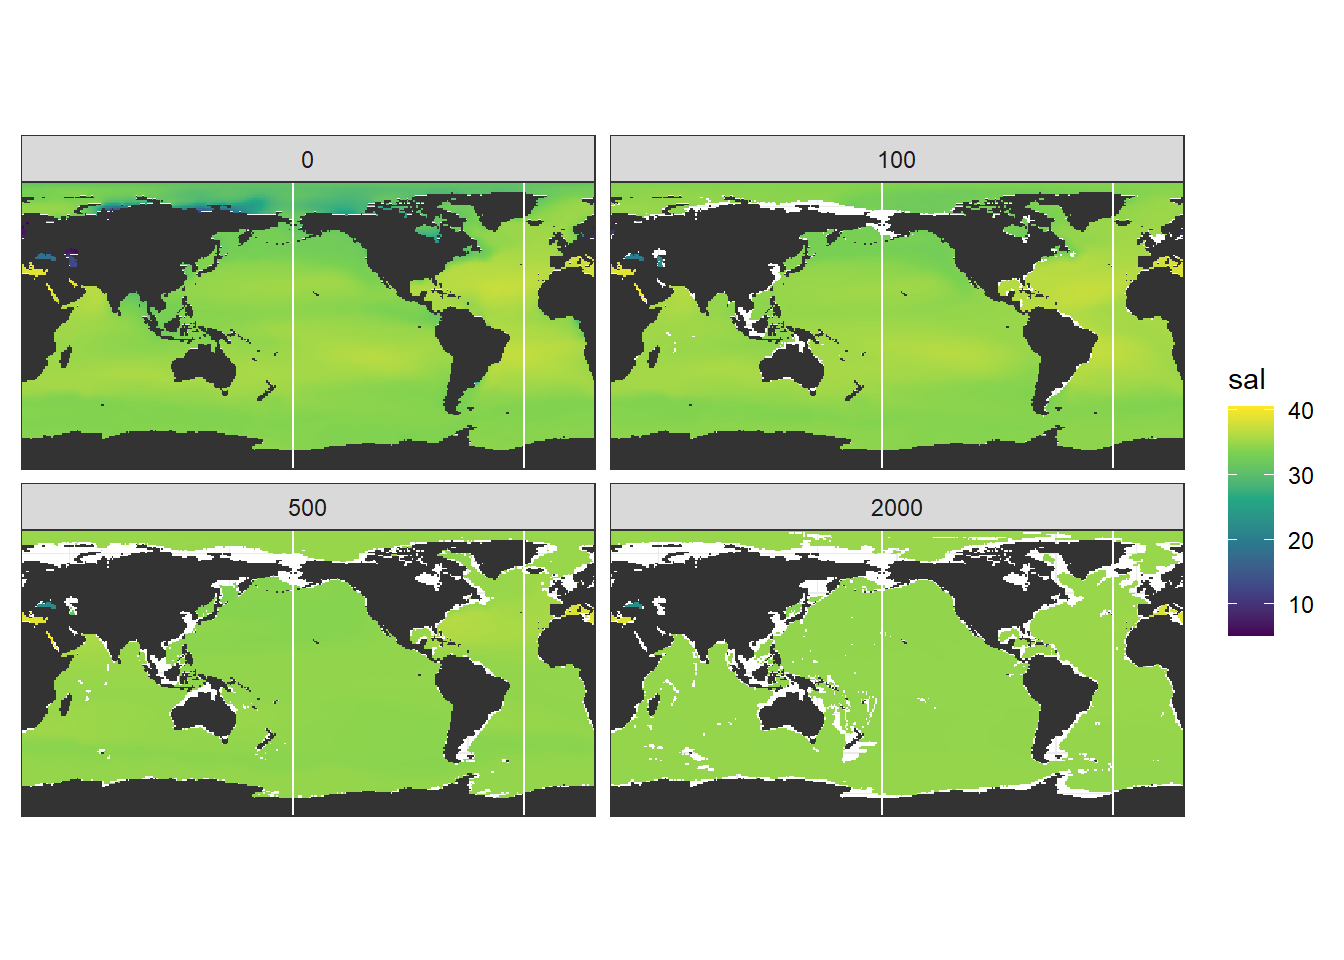
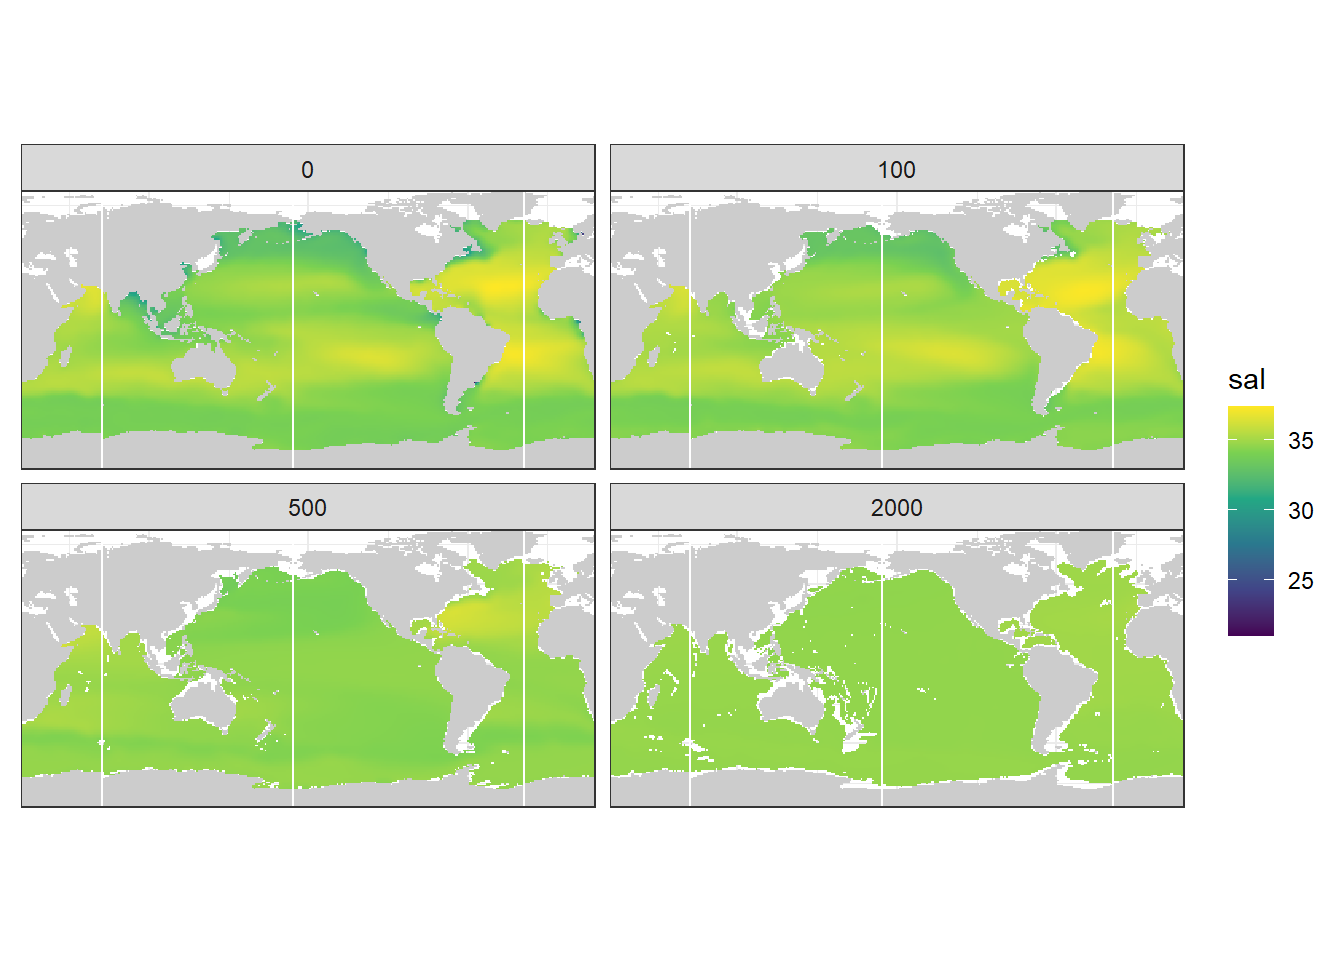
Build site.

diff --git a/docs/read_World_Ocean_Atlas_2018.html b/docs/read_World_Ocean_Atlas_2018.html
@@ -454,7 +454,7 @@ div.tocify {
 
 <h1 class="title toc-ignore">World Ocean Atlas 2018</h1>
 <h4 class="author">Jens Daniel Müller</h4>
-<h4 class="date">11 August, 2020</h4>
+<h4 class="date">12 August, 2020</h4>
 
 </div>
 
@@ -479,7 +479,7 @@ div.tocify {
 <div class="tab-content">
 <div id="summary" class="tab-pane fade in active">
 <p>
-<strong>Last updated:</strong> 2020-08-11
+<strong>Last updated:</strong> 2020-08-12
 </p>
 <p>
 <strong>Checks:</strong> <span class="glyphicon glyphicon-ok text-success" aria-hidden="true"></span> 7 <span class="glyphicon glyphicon-exclamation-sign text-danger" aria-hidden="true"></span> 0
@@ -570,16 +570,16 @@ This reproducible <a href="http://rmarkdown.rstudio.com">R Markdown</a> analysis
 <div class="panel panel-default">
 <div class="panel-heading">
 <p class="panel-title">
-<a data-toggle="collapse" data-parent="#workflowr-checks" href="#strongRepositoryversionstrongahrefhttpsgithubcomjensdanielmuellerCanteMLRtree5d4598160dff9ddc8596674983c74e0680c9ce62targetblank5d45981a"> <span class="glyphicon glyphicon-ok text-success" aria-hidden="true"></span> <strong>Repository version:</strong> <a href="https://github.com/jens-daniel-mueller/Cant_eMLR/tree/5d4598160dff9ddc8596674983c74e0680c9ce62" target="_blank">5d45981</a> </a>
+<a data-toggle="collapse" data-parent="#workflowr-checks" href="#strongRepositoryversionstrongahrefhttpsgithubcomjensdanielmuellerCanteMLRtree1a7acc27f10d03a0cf9339e46aaf8597fa9ea4ectargetblank1a7acc2a"> <span class="glyphicon glyphicon-ok text-success" aria-hidden="true"></span> <strong>Repository version:</strong> <a href="https://github.com/jens-daniel-mueller/Cant_eMLR/tree/1a7acc27f10d03a0cf9339e46aaf8597fa9ea4ec" target="_blank">1a7acc2</a> </a>
 </p>
 </div>
[2 lines of base64/hex data omitted]
 <div class="panel-body">
 <p>
 Great! You are using Git for version control. Tracking code development and connecting the code version to the results is critical for reproducibility.
 </p>
 <p>
-The results in this page were generated with repository version <a href="https://github.com/jens-daniel-mueller/Cant_eMLR/tree/5d4598160dff9ddc8596674983c74e0680c9ce62" target="_blank">5d45981</a>. See the <em>Past versions</em> tab to see a history of the changes made to the R Markdown and HTML files.
+The results in this page were generated with repository version <a href="https://github.com/jens-daniel-mueller/Cant_eMLR/tree/1a7acc27f10d03a0cf9339e46aaf8597fa9ea4ec" target="_blank">1a7acc2</a>. See the <em>Past versions</em> tab to see a history of the changes made to the R Markdown and HTML files.
 </p>
 <p>
 Note that you need to be careful to ensure that all relevant files for the analysis have been committed to Git prior to generating the results (you can use <code>wflow_publish</code> or <code>wflow_git_commit</code>). workflowr only checks the R Markdown file, but you know if there are other scripts or data files that it depends on. Below is the status of the Git repository when the results were generated:
@@ -643,6 +643,40 @@ Message
 </tr>
 </thead>
 <tbody>
+<tr>
+<td>
+Rmd
+</td>
+<td>
+<a href="https://github.com/jens-daniel-mueller/Cant_eMLR/blob/1a7acc27f10d03a0cf9339e46aaf8597fa9ea4ec/analysis/read_World_Ocean_Atlas_2018.Rmd" target="_blank">1a7acc2</a>
+</td>
+<td>
+jens-daniel-mueller
+</td>
+<td>
+2020-08-12
+</td>
+<td>
+applied basin mask, combined sectio plots for Atl, Pac, Ind
+</td>
+</tr>
+<tr>
+<td>
+html
+</td>
+<td>
+<a href="https://rawcdn.githack.com/jens-daniel-mueller/Cant_eMLR/35b284df4b8906df1eca802c86a75c07d7cb4fe6/docs/read_World_Ocean_Atlas_2018.html" target="_blank">35b284d</a>
+</td>
+<td>
+jens-daniel-mueller
+</td>
+<td>
+2020-08-11
+</td>
+<td>
+Build site.
+</td>
+</tr>
 <tr>
 <td>
 Rmd
@@ -1772,10 +1806,11 @@ basinmask_01 &lt;- basinmask_01 %&gt;%
 <li>1: Atlantic Ocean (with 10 - Southern Ocean, between 63°W and 20°E)</li>
 <li>2: Pacific Ocean (with 10 - Southern Ocean, between 147°E and 63°W)</li>
 <li>3: Indian Ocean (with 10 - Southern Ocean, between 20°E and 147°E)</li>
+<li>56: Bay of Bengal (included in Indo-Pacifc)</li>
 </ul>
-<p>From this, the Atlantik and the Indo-Pacific were labeled.</p>
+<p>From this, the Atlantic and the Indo-Pacific were labeled.</p>
 <pre class="r"><code>basinmask_01 &lt;- basinmask_01 %&gt;% 
-  filter(Basin_0m %in% c(&quot;1&quot;, &quot;2&quot;, &quot;3&quot;, &quot;10&quot;)) %&gt;% 
+  filter(Basin_0m %in% c(&quot;1&quot;, &quot;2&quot;, &quot;3&quot;, &quot;10&quot;, &quot;56&quot;)) %&gt;% 
   mutate(basin = if_else(Basin_0m == &quot;10&quot; &amp; lon &gt;= -63 &amp; lon &lt; 20,
                          &quot;Atlantic&quot;, &quot;Indo-Pacific&quot;),
          basin = if_else(Basin_0m == &quot;1&quot;,
@@ -1792,10 +1827,15 @@ basinmask_01 &lt;- basinmask_01 %&gt;%
 <pre class="r"><code>landsea_01 &lt;- read_csv(here::here(&quot;data/World_Ocean_Atlas_2018&quot;,
                                   &quot;landsea_01.msk&quot;),
                          skip = 1,
-                         col_types = list(.default = &quot;d&quot;))
-
-landmask &lt;- landsea_01 %&gt;% 
-  filter(Bottom_Standard_Level == 1) %&gt;% 
+                         col_types = list(.default = &quot;d&quot;))</code></pre>
+</div>
+<div id="label" class="section level3">
+<h3><span class="header-section-number">2.2.2</span> Label</h3>
+<p>According to the <a href="https://data.nodc.noaa.gov/woa/WOA18/DOC/woa18documentation.pdf" target="_blank">WOA18 documentation</a> document: <em>“The landsea_XX.msk contains the standard depth level number at which the bottom of the ocean is first encountered at each quarter-degree or one-degree square for the entire world. Land will have a value of 1, corresponding to the surface.”</em></p>
+<p>The landmask was derived as coordinates with value 1.</p>
+<pre class="r"><code>landmask &lt;- landsea_01 %&gt;% 
+  mutate(region = if_else(Bottom_Standard_Level == &quot;1&quot;,
+                         &quot;land&quot;, &quot;ocean&quot;)) %&gt;% 
   select(-Bottom_Standard_Level)
 
 landmask &lt;- landmask %&gt;% 
@@ -1805,16 +1845,11 @@ landmask &lt;- landmask %&gt;%
 
 rm(landsea_01)</code></pre>
 </div>
-<div id="label" class="section level3">
-<h3><span class="header-section-number">2.2.2</span> Label</h3>
-<p>According to the <a href="https://data.nodc.noaa.gov/woa/WOA18/DOC/woa18documentation.pdf" target="_blank">WOA18 documentation</a> document: <em>“The landsea_XX.msk contains the standard depth level number at which the bottom of the ocean is first encountered at each quarter-degree or one-degree square for the entire world. Land will have a value of 1, corresponding to the surface.”</em></p>
-<p>The landmask was derived as coordinates with value 1.</p>
-</div>
 </div>
 <div id="plot-map" class="section level2">
 <h2><span class="header-section-number">2.3</span> Plot map</h2>
 <pre class="r"><code>ggplot() +
-  geom_raster(data = landmask,
+  geom_raster(data = landmask %&gt;% filter(region == &quot;land&quot;),
               aes(lon, lat), fill = &quot;grey80&quot;) +
   geom_raster(data = basinmask_01,
               aes(lon, lat, fill = basin)) +
@@ -1822,7 +1857,7 @@ rm(landsea_01)</code></pre>
   coord_quickmap(expand = 0) +
   theme(legend.position = &quot;top&quot;,
         legend.title = element_blank())</code></pre>
-<p><img src="figure/read_World_Ocean_Atlas_2018.Rmd/WOA18_map-1.png" width="672" style="display: block; margin: auto;" /></p>
+<p><img src="figure/read_World_Ocean_Atlas_2018.Rmd/basin_masks_WOA18_map-1.png" width="672" style="display: block; margin: auto;" /></p>
 </div>
 <div id="write-files" class="section level2">
 <h2><span class="header-section-number">2.4</span> Write files</h2>
@@ -1832,9 +1867,7 @@ rm(landsea_01)</code></pre>
 
 landmask %&gt;% 
   write_csv(here::here(&quot;data/World_Ocean_Atlas_2018/_summarized_files&quot;,
-                       &quot;land_mask_WOA18.csv&quot;))
-
-rm(basinmask_01)</code></pre>
+                       &quot;land_mask_WOA18.csv&quot;))</code></pre>
 </div>
 </div>
 <div id="woa18-data" class="section level1">
@@ -1905,45 +1938,50 @@ rm(WOA_sal, WOA_tem)</code></pre>
 </ul>
 <p>Section locations are indicated as white lines in maps.</p>
 <p>Please note that longitudes in the climatologies range from -179.5 - 179.5, which is different from GLODAP mapped climatologies.</p>
+<pre class="r"><code>WOA18_predictors &lt;- full_join(WOA_sal_tibble, WOA_tem_tibble)
+rm(WOA_sal_tibble, WOA_tem_tibble)</code></pre>
+</div>
+<div id="apply-basin-mask" class="section level2">
+<h2><span class="header-section-number">3.2</span> Apply basin mask</h2>
+<p>Data outside the WOA18 basin mask were removed for further analysis.</p>
+<pre class="r"><code>WOA18_predictors &lt;- inner_join(WOA18_predictors, basinmask_01)
+rm(basinmask_01)</code></pre>
+</div>
+<div id="neutral-density" class="section level2">
+<h2><span class="header-section-number">3.3</span> Neutral density</h2>
 </div>
 <div id="temperature-plots" class="section level2">
-<h2><span class="header-section-number">3.2</span> Temperature plots</h2>
+<h2><span class="header-section-number">3.4</span> Temperature plots</h2>
 <div id="surface-map" class="section level3">
-<h3><span class="header-section-number">3.2.1</span> Surface map</h3>
+<h3><span class="header-section-number">3.4.1</span> Surface map</h3>
 <pre class="r"><code>source(here::here(&quot;code&quot;,
                   &quot;plotting_functions.R&quot;))
 
-map_climatology(WOA_tem_tibble, &quot;tem&quot;)</code></pre>
+map_climatology(WOA18_predictors, &quot;tem&quot;)</code></pre>
 <p><img src="figure/read_World_Ocean_Atlas_2018.Rmd/temperature_surface_WOA18_map-1.png" width="672" style="display: block; margin: auto;" /></p>
 </div>
 <div id="sections" class="section level3">
-<h3><span class="header-section-number">3.2.2</span> Sections</h3>
-<pre class="r"><code>section_climatology_Atl(WOA_tem_tibble, &quot;tem&quot;)</code></pre>
-<p><img src="figure/read_World_Ocean_Atlas_2018.Rmd/temperature_section_WOA18_Atl-1.png" width="672" style="display: block; margin: auto;" /></p>
-<pre class="r"><code>section_climatology_Pac(WOA_tem_tibble, &quot;tem&quot;)</code></pre>
-<p><img src="figure/read_World_Ocean_Atlas_2018.Rmd/temperature_section_WOA18_Pac-1.png" width="672" style="display: block; margin: auto;" /></p>
+<h3><span class="header-section-number">3.4.2</span> Sections</h3>
+<pre class="r"><code>section_climatology(WOA18_predictors, &quot;tem&quot;)</code></pre>
+<p><img src="figure/read_World_Ocean_Atlas_2018.Rmd/temperature_sections_WOA18-1.png" width="672" style="display: block; margin: auto;" /></p>
 </div>
 </div>
 <div id="salinity-plots" class="section level2">
-<h2><span class="header-section-number">3.3</span> Salinity plots</h2>
+<h2><span class="header-section-number">3.5</span> Salinity plots</h2>
 <div id="surface-map-1" class="section level3">
-<h3><span class="header-section-number">3.3.1</span> Surface map</h3>
-<pre class="r"><code>map_climatology(WOA_sal_tibble, &quot;sal&quot;)</code></pre>
+<h3><span class="header-section-number">3.5.1</span> Surface map</h3>
+<pre class="r"><code>map_climatology(WOA18_predictors, &quot;sal&quot;)</code></pre>
 <p><img src="figure/read_World_Ocean_Atlas_2018.Rmd/salinity_surface_WOA18_map-1.png" width="672" style="display: block; margin: auto;" /></p>
 </div>
 <div id="sections-1" class="section level3">
-<h3><span class="header-section-number">3.3.2</span> Sections</h3>
-<pre class="r"><code>section_climatology_Atl(WOA_sal_tibble, &quot;sal&quot;)</code></pre>
-<p><img src="figure/read_World_Ocean_Atlas_2018.Rmd/salinity_section_WOA18_Atl-1.png" width="672" style="display: block; margin: auto;" /></p>
-<pre class="r"><code>section_climatology_Pac(WOA_sal_tibble, &quot;sal&quot;)</code></pre>
-<p><img src="figure/read_World_Ocean_Atlas_2018.Rmd/salinity_section_WOA18_Pac-1.png" width="672" style="display: block; margin: auto;" /></p>
+<h3><span class="header-section-number">3.5.2</span> Sections</h3>
+<pre class="r"><code>section_climatology(WOA18_predictors, &quot;sal&quot;)</code></pre>
+<p><img src="figure/read_World_Ocean_Atlas_2018.Rmd/salinity_sections_WOA18-1.png" width="672" style="display: block; margin: auto;" /></p>
 </div>
 </div>
 <div id="write-file" class="section level2">
-<h2><span class="header-section-number">3.4</span> Write file</h2>
-<pre class="r"><code>WOA18_predictors &lt;- full_join(WOA_sal_tibble, WOA_tem_tibble)
-
-WOA18_predictors %&gt;% 
+<h2><span class="header-section-number">3.6</span> Write file</h2>
+<pre class="r"><code>WOA18_predictors %&gt;% 
   write_csv(here::here(&quot;data/World_Ocean_Atlas_2018/_summarized_files&quot;,
                        &quot;WOA18_predictors.csv&quot;))
 
@@ -2031,7 +2069,7 @@ rm(nd_mask, nd_mask_tibble, Atl_lon, Pac_lon, depth_surface_selection)</code></p
 <h1><span class="header-section-number">5</span> Open tasks</h1>
 <ul>
 <li>apply basin mask to WOA18 data</li>
-<li>add Indian ocean section plot</li>
+<li>add Indian ocean section plot -calculate neutral density</li>
 </ul>
 </div>
 <div id="questions" class="section level1">

diff --git a/docs/config_parameterization.html b/docs/config_parameterization.html
@@ -455,7 +455,7 @@ div.tocify {
 
 <h1 class="title toc-ignore">Parameterization</h1>
 <h4 class="author">Jens Daniel Müller</h4>
-<h4 class="date">11 August, 2020</h4>
+<h4 class="date">12 August, 2020</h4>
 
 </div>
 
@@ -480,7 +480,7 @@ div.tocify {
 <div class="tab-content">
 <div id="summary" class="tab-pane fade in active">
 <p>
-<strong>Last updated:</strong> 2020-08-11
+<strong>Last updated:</strong> 2020-08-12
 </p>
 <p>
 <strong>Checks:</strong> <span class="glyphicon glyphicon-ok text-success" aria-hidden="true"></span> 7 <span class="glyphicon glyphicon-exclamation-sign text-danger" aria-hidden="true"></span> 0
@@ -571,16 +571,16 @@ This reproducible <a href="http://rmarkdown.rstudio.com">R Markdown</a> analysis
 <div class="panel panel-default">
 <div class="panel-heading">
 <p class="panel-title">
-<a data-toggle="collapse" data-parent="#workflowr-checks" href="#strongRepositoryversionstrongahrefhttpsgithubcomjensdanielmuellerCanteMLRtreec9e2d6589d10d071648999267fe5847788046df4targetblankc9e2d65a"> <span class="glyphicon glyphicon-ok text-success" aria-hidden="true"></span> <strong>Repository version:</strong> <a href="https://github.com/jens-daniel-mueller/Cant_eMLR/tree/c9e2d6589d10d071648999267fe5847788046df4" target="_blank">c9e2d65</a> </a>
+<a data-toggle="collapse" data-parent="#workflowr-checks" href="#strongRepositoryversionstrongahrefhttpsgithubcomjensdanielmuellerCanteMLRtree1a7acc27f10d03a0cf9339e46aaf8597fa9ea4ectargetblank1a7acc2a"> <span class="glyphicon glyphicon-ok text-success" aria-hidden="true"></span> <strong>Repository version:</strong> <a href="https://github.com/jens-daniel-mueller/Cant_eMLR/tree/1a7acc27f10d03a0cf9339e46aaf8597fa9ea4ec" target="_blank">1a7acc2</a> </a>
 </p>
 </div>
[2 lines of base64/hex data omitted]
 <div class="panel-body">
 <p>
 Great! You are using Git for version control. Tracking code development and connecting the code version to the results is critical for reproducibility.
 </p>
 <p>
-The results in this page were generated with repository version <a href="https://github.com/jens-daniel-mueller/Cant_eMLR/tree/c9e2d6589d10d071648999267fe5847788046df4" target="_blank">c9e2d65</a>. See the <em>Past versions</em> tab to see a history of the changes made to the R Markdown and HTML files.
+The results in this page were generated with repository version <a href="https://github.com/jens-daniel-mueller/Cant_eMLR/tree/1a7acc27f10d03a0cf9339e46aaf8597fa9ea4ec" target="_blank">1a7acc2</a>. See the <em>Past versions</em> tab to see a history of the changes made to the R Markdown and HTML files.
 </p>
 <p>
 Note that you need to be careful to ensure that all relevant files for the analysis have been committed to Git prior to generating the results (you can use <code>wflow_publish</code> or <code>wflow_git_commit</code>). workflowr only checks the R Markdown file, but you know if there are other scripts or data files that it depends on. Below is the status of the Git repository when the results were generated:
@@ -602,9 +602,10 @@ Ignored files:
     Ignored:    dump/
 
 Untracked files:
-    Untracked:  analysis/plotting_scripts/
     Untracked:  analysis/python_scripts/
-    Untracked:  analysis/test_scripts/
+    Untracked:  code/plotting_functions.R
+    Untracked:  code/test_scripts/
+    Untracked:  figure/
 
 </code></pre>
 <p>
@@ -643,6 +644,40 @@ Message
 </tr>
 </thead>
 <tbody>
+<tr>
+<td>
+Rmd
+</td>
+<td>
+<a href="https://github.com/jens-daniel-mueller/Cant_eMLR/blob/1a7acc27f10d03a0cf9339e46aaf8597fa9ea4ec/analysis/config_parameterization.Rmd" target="_blank">1a7acc2</a>
+</td>
+<td>
+jens-daniel-mueller
+</td>
+<td>
+2020-08-12
+</td>
+<td>
+applied basin mask, combined sectio plots for Atl, Pac, Ind
+</td>
+</tr>
+<tr>
+<td>
+html
+</td>
+<td>
+<a href="https://rawcdn.githack.com/jens-daniel-mueller/Cant_eMLR/cee0e89d952c4c9b9b5a5d4484c13b6cede97f20/docs/config_parameterization.html" target="_blank">cee0e89</a>
+</td>
+<td>
+jens-daniel-mueller
+</td>
+<td>
+2020-08-11
+</td>
+<td>
+Build site.
+</td>
+</tr>
 <tr>
 <td>
 Rmd
@@ -750,7 +785,8 @@ library(kableExtra)</code></pre>
   year_JGOFS_end = 1999,
   year_GOSHIP_end = 2012,
   lon_Atl_section = 335.5,
-  lon_Pac_section = 190.5)
+  lon_Pac_section = 190.5,
+  lon_Ind_section = 70.5)
 
 depth_levels &lt;- c(0,100,500,2000)</code></pre>
 </div>
@@ -822,6 +858,14 @@ lon_Atl_section
 </td>
 <td style="text-align:right;">
 335.5
+</td>
+</tr>
+<tr>
+<td style="text-align:left;">
+lon_Ind_section
+</td>
+<td style="text-align:right;">
+70.5
 </td>
 </tr>
 <tr>
